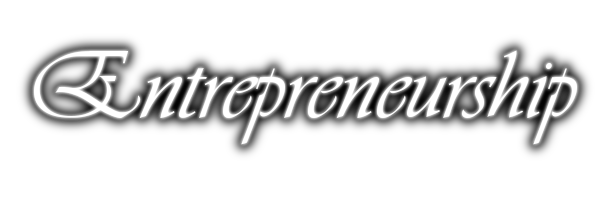
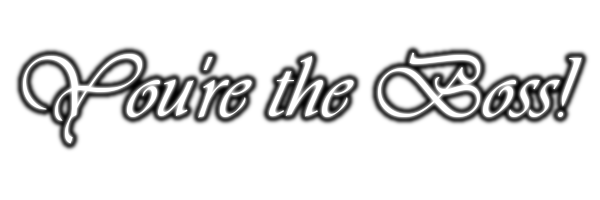
VI and RemoveProduct Fixes
The VI now uses its list of products that it already has instead of
pushing data to a separate array.
Also the RemoveProduct function no longer only checks the CurrentPlayer
for products to remove, and it overall works properly because of this
and what's mentioned above.

Changed region(s): [[0.0, 0.18, 0.99, 0.78]]

diff --git a/js/virtual_intelligence.js b/js/virtual_intelligence.js
@@ -22,7 +22,7 @@ function VI_Begin(ply){
 		if (TheGame.GameState === "ACTIVE") {
 			VI_CloseThePopUps();
 		}
-	},VI_WAIT_TIME);
+	},50+VI_WAIT_TIME*Number(TheGame.Players.indexOf(self)<=0));
 }
 function VI_CloseThePopUps(){
 	if ($("#QuitDialog").is(":visible")){
@@ -58,14 +58,14 @@ function VI_Logic(){
 		if(self.VIMemory.NumQA==0){
 			VI_Support_MoreEmployees();
 		}
-		if(self.VIMemory.ProductIDs.length==0){
+		if(self.Products.length<=0){
 			VI_Support_NewProduct();
 			MadeProd=true;
 		}else{
-			self.VIMemory.ProductIDs.forEach(function(prod){
+			self.Products.forEach(function(prod){
 				var Id;
 				$(".ProductDisplayItem").each(function(ind,val){
-					if($(this).attr("id").substring(19)==prod){
+					if($(this).attr("id").substring(19)==prod.GlobalID){
 						$(this).trigger("click");
 						Id=$(this).attr("id");
 					}
@@ -79,7 +79,7 @@ function VI_Logic(){
 				}
 			});
 		}
-		if(!MadeProd && (self.VIMemory.ProductIDs.length < 9)){
+		if(!MadeProd && (self.Products.length < 9)){
 			if(Math.random()<(0.15*Vi_diff_mult)){
 				VI_Support_NewProduct();
 			}
@@ -143,65 +143,13 @@ function VI_End(){
 		},500/VISpeed);
 	}
 }
-/*
-function VI_End_Old(){
-	setTimeout(function(){
-		var VISpeed=0.5*Vi_diff_mult;
-		var Time=VI_WAIT_TIME;
-		
-		ActionQue.forEach(function(action){
-			Time=Time+action[2]/VISpeed;
-			setTimeout(function(){
-				if(action[0]=="FUNC_CALL"){
-					action[1]();
-				}else{
-					if(action[1]){
-						$("#"+action[0]).val(action[1]);
-					}else{
-						$("#"+action[0]).trigger("click");
-					}
-				}
-			},Time);
-		});
-		setTimeout(function(){
-			ActionQue=[]; // wipe the action que
-			$("#EndTurnBtn").click();
-			$("#ControlLock").hide();
-		},Time+500/VISpeed);
-	},500)
-}
-*/
 function VI_Support_NewProduct(){
 	var Naem = NAEMS[Math.round(Math.random()*NAEMS.length-1)];
-	var ID = TheGame.PlayerProducts.length;
 	ActionQue.push(["new-product-button",null,200]);
 	ActionQue.push(["NewProdName",Naem,750]);
 	ActionQue.push(["FUNC_CALL",VI_Support_SetCat,150]);
 	ActionQue.push(["FUNC_CALL",VI_Support_SetSubCat,150]);
 	ActionQue.push(["CreateNewProdConfirm",null,500]);
-	self.VIMemory.Products.push([Naem,new Date().getTime(),ID]);
-	self.VIMemory.ProductIDs.push(ID);
-}
-function VI_FindProduct(theGlobalID){
-	/*var index = -1;
-	var i = 0;
-	
-	while (index === -1 && i < self.VIMemory.Products.length){
-		if (theGlobalID === self.VIMemory.Products[i][2]){
-			index = i;
-		}
-		else{			
-			i++;
-		}
-	}*/
-	return self.VIMemory.ProductIDs.indexOf(theGlobalID);//index;
-}
-function VI_RemoveProduct(theGlobalID){
-	var indexOfTarget = VI_FindProduct(theGlobalID);
-	if (indexOfTarget !== -1){
-		self.VIMemory.Products.splice(indexOfTarget, 1);
-		self.VIMemory.ProductIDs.splice(indexOfTarget, 1);
-	}
 }
 function VI_Support_MoreEmployees(){
 	var NewQA=Math.round(Math.random()*Math.random()*10*Vi_diff_mult);
@@ -220,9 +168,9 @@ function VI_Support_MoreEmployees(){
 	ActionQue.push(["EmployeeDoneButton",null,400]);
 }
 function VI_Support_SetCat(){
-	document.getElementById("NewProductCategory").selectedIndex=Math.round(Math.random(0,5));
+	document.getElementById("NewProductCategory").selectedIndex=Math.floor(Math.random()*5);
 	$("#NewProductCategory").trigger("change");
 }
 function VI_Support_SetSubCat(){
-	document.getElementById("NewProductSubCategory").selectedIndex=Math.round(Math.random(0,3));
+	document.getElementById("NewProductSubCategory").selectedIndex=Math.floor(Math.random()*3);
 }

diff --git a/html/game_board.html b/html/game_board.html
@@ -432,11 +432,11 @@
 						<div class="Popup" id="EventDialog" style="top:10%;height:80%;width:60%;left:20%">
 							<div class="StandardText" id="EventTitle" style="font-size:35px;margin:0px;width:100%;top:3%;">Code is broken!</div>
 							<div class="StandardText" id="EventDesc" style="font-size:20px;margin:0px;width:100%;top:60%;">Something went wrong probably because of lack of quality code practices!</div>
-							<img id="EventImage" src="../images/events/event_cyberattack.png" style="position:absolute;left:29%;top:15%;width:200px;height:200px"></img>
+							<img id="EventImage" src="../images/events/event_fail.png" style="position:absolute;left:29%;top:15%;width:200px;height:200px"></img>
 							<button class="Standard" id="EventButton" onclick="CloseEventDialog()" style="left:20%;top:84%;width:60%">Continue</button>
 						</div>
 						<div class="Popup" id="TriggerDialog" style="top:20%;height:60%;width:60%;left:20%">
-							<img id="TriggerImage" src="../images/events/event_cyberattack.png" style="position:absolute;left:29%;top:3%;width:200px;height:200px"></img>
+							<img id="TriggerImage" src="../images/events/event_fail.png" style="position:absolute;left:29%;top:3%;width:200px;height:200px"></img>
 							<div class="StandardText" id="TriggerDesc" style="font-size:15px;margin:0px;width:100%;top:62%;">Something went wrong probably because of lack of quality code practices!</div>
 							<button class="Standard" id="TriggerButton" onclick="CloseTriggerDialog()" style="left:20%;top:80%;width:60%">Continue</button>
 						</div>

diff --git a/js/primary_gameboard_operation.js b/js/primary_gameboard_operation.js
@@ -382,17 +382,15 @@ function removeProduct(prod) {
 		}
 		$("#ProductDisplayItem_" + prod.GlobalID).css('opacity', '0');
 		$("#ProductDisplayItem_" + prod.GlobalID).css('transition', '500ms ease-out');
-		TheGame.Players[TheGame.CurrentPlayerNum].NumProducts = TheGame.Players[TheGame.CurrentPlayerNum].Products.length;
 		setTimeout(function () {
 			$("div").remove("#ProductDisplayItem_" + prod.GlobalID);
 		}, 500);
 		if (prod.justStarted) {
 			TheGame.CurrentPlayer.hasMadeProductThisTurn = false;
 		}
-		if (prod.Owner.Type === "Computer"){
-			VI_RemoveProduct(prod.GlobalID);
-		}
 		prod.Owner.Products.splice(prod.Owner.Products.indexOf(prod), 1);
+		var ThePlayerAtLoss = TheGame.Players.indexOf(prod.Owner);
+		TheGame.Players[ThePlayerAtLoss].NumProducts = TheGame.Players[ThePlayerAtLoss].Products.length;
 		UpdatePlayerProductDisplayPosition(prod.Owner);
 		UpdatePlayerDisplay();
 	}

diff --git a/html/Main.html b/html/Main.html
@@ -2,7 +2,7 @@
 <html>
 	<meta charset="utf-8"> 
 	<head>
-		<Title>Entrepreneurship: The Movie: The Game</Title>
+		<Title>You're the Boss!</Title>
 		<script src="../js/jquery.js"></script>
 		<script src="../js/shared.js"></script>
 		<link rel="stylesheet" type="text/css" href="../css/shared.css"></link>

diff --git a/js/Shared.js b/js/Shared.js
@@ -247,8 +247,6 @@ function Player(game,name,type,color){
 	};
 	if(newPlayer.Type==="Computer"){
 		newPlayer.VIMemory={};
-		newPlayer.VIMemory.Products=[];
-		newPlayer.VIMemory.ProductIDs=[];
 		newPlayer.VIMemory.Money=2000;
 		newPlayer.VIMemory.Name=name;
 		newPlayer.VIMemory.Color=color;
